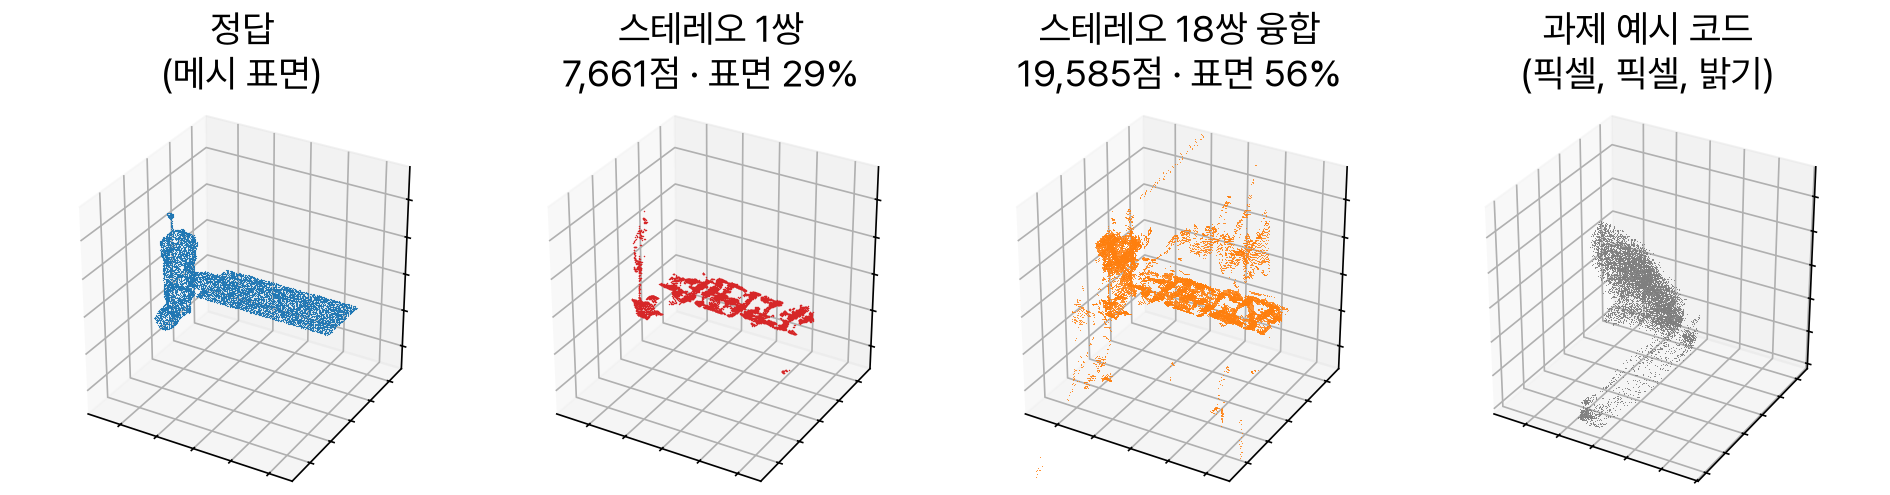
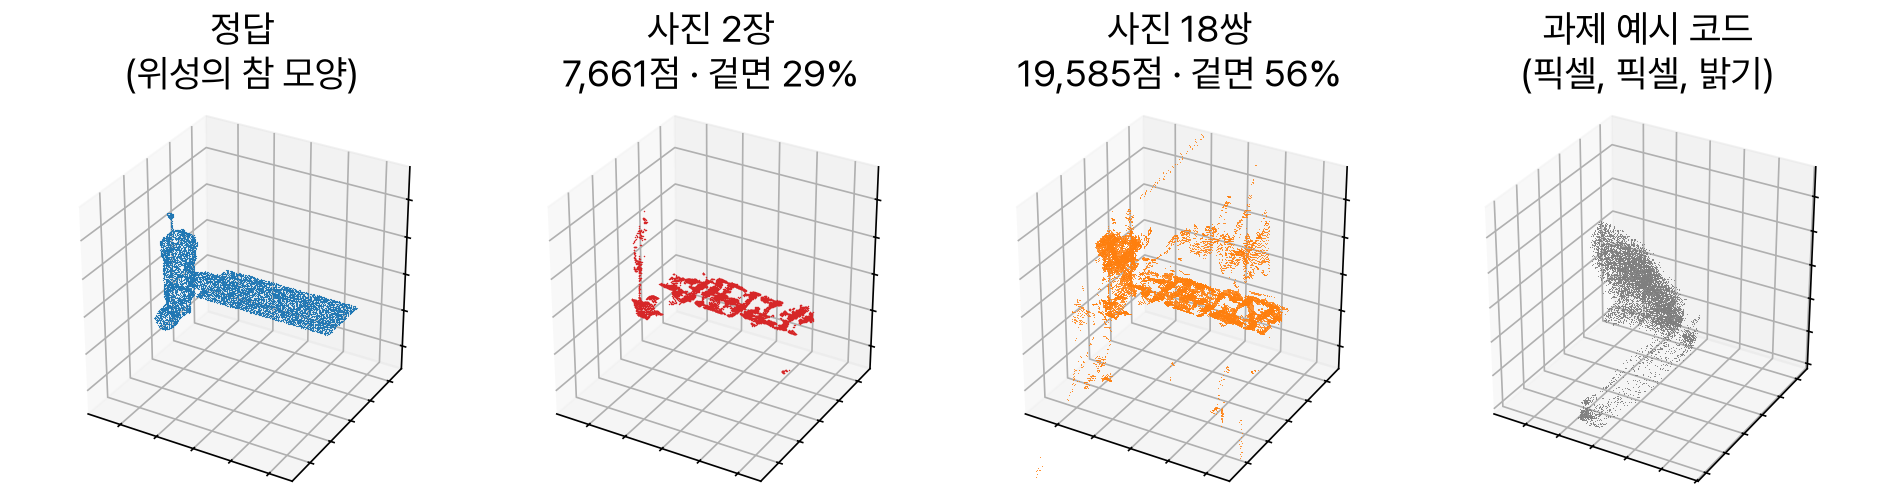
3장 그림에서 과제 예시를 빼고, 슬라이드 문장을 앞뒤가 이어지게 고침
3장 그림
    과제 예시 코드 결과를 빼고 정답 · 사진 2장 · 사진 18쌍 세 칸으로 줄였다.
    예시 코드가 왜 3D 가 아닌지는 2장에서 이미 다루므로, 같은 이야기를 두 번
    하면 정작 봐야 할 "앞면은 찼고 뒷면이 비었다" 에서 눈이 떨어진다.

    문서용 04_pointclouds.png 는 네 칸 그대로 두고, 발표용
    04_pointclouds_slide.png 를 따로 만든다. 1·2장에서 이미 쓰던 방식이다.
    대신 "과제 예시보다 5.6배 정확" 은 3장 표에 한 줄로 남겼다.

문장
    카드 안의 문장이 서로 이어지지 않고 토막나 있었다. 각 카드를 세 걸음으로
    다시 썼다.
      1장 왼쪽  문제 -> 왜 그런가 -> 그래서 어떻게
      1장 오른쪽 문제 -> 반전 -> 해결
      3장 오른쪽 결과 -> 한계 -> 대응
      4장 왼쪽  무엇을 하는가 -> 왜 3이었나 -> 왜 틀렸나
    4장 오른쪽 아래의 "쓰지 않은 것" 도 앞 카드의 "전부 같이 좋아졌습니다" 를
    받아 "이번엔 하나를 얻고 하나를 내주는 쪽이라" 로 이어지게 했다.

    발표자 노트도 3장 기준으로 다시 맞췄다 ("네 장" -> "세 장").

outputs 는 이제 15개이고 전부 바이트 단위로 재현된다.

Claude-Session: https://claude.ai/code/session_018U3AzX4tcWGeaMbFnbomri

diff --git a/02_2d_to_3d/tools/build_report.py b/02_2d_to_3d/tools/build_report.py
@@ -346,15 +346,16 @@ def build(prs, s):
         "SPE3R 위성 근접 영상 1,000장 · 256×256 · Stanford SLAB")
     add_image(sl, os.path.join(OUT, "00_concept.png"), 0.72, 1.70, 11.89, 3.16)
     add_panel(sl, 0.72, 5.02, 5.86, 1.86, "왜 사진이 두 장 필요한가", [
-        t("사진 한 장으로는 멀고 가까움을 알 수 없습니다."),
-        t("사람도 눈이 둘이라 거리를 느낍니다."),
-        t("떨어진 두 곳에서 찍으면 가까운 것일수록 많이 밀립니다."),
+        t("사진 한 장에는 멀고 가까움이 남지 않습니다."),
+        t("한 방향으로 늘어선 점이 전부 같은 자리에 찍히기 때문입니다."),
+        t("그래서 떨어진 두 곳에서 찍습니다. 가까운 것일수록 많이 "
+          "밀리고, 그 밀린 정도가 곧 거리입니다."),
     ])
     add_panel(sl, 6.96, 5.02, 5.65, 1.86, "그런데 이 데이터는 카메라가 고정입니다", [
-        t("옆으로 1 mm 도 움직이지 않습니다."),
+        t("옆으로 1 mm 도 움직이지 않아, 그대로면 두 번째 눈이 없습니다."),
         tk("대신 위성이 매 장면 무작위로 돌아갑니다."),
-        t(f"그 각도 차이가 두 번째 눈이 됩니다. 옆에서 "
-          f"{best['baseline_m']*100:.0f} cm 떨어져 찍은 효과입니다."),
+        t(f"위성을 가만히 놓고 보면 카메라가 돈 셈이라, 옆에서 "
+          f"{best['baseline_m']*100:.0f} cm 떨어져 찍은 효과가 나옵니다."),
     ])
     add_notes(sl, f"""
 사진 한 장으로는 멀고 가까움을 알 수 없습니다. 한 방향으로 늘어선 점들이 전부 같은
@@ -404,12 +405,13 @@ def build(prs, s):
 
     add_panel(sl, 0.72, 5.18, 11.89, 1.64, "왜 이렇게 짰나", [
         t("공과 상자로 위성을 세우면 정답 거리를 식으로 구할 수 있습니다. "
-          "정답에 오차가 없으니, 틀린 만큼이 곧 알고리즘의 오차입니다."),
+          "정답에 오차가 없으니, 틀린 만큼이 그대로 알고리즘의 오차입니다."),
         t("그래서 '그림이 그럴듯한가' 가 아니라 '숫자가 맞는가' 로 확인합니다. "
-          f"정답 깊이 차이 {syn['gt_span_m']:.2f} m 를 저희는 {ss['span_m']:.2f} m 로, "
-          f"과제 예시 코드는 {se['span_m']:.3f} m 로 복원했습니다."),
-        tk(f"이번에 찾은 버그 4건은 전부 테스트가 없던 자리에서 나왔습니다. "
-           f"고친 뒤 일부러 되돌려 그 테스트가 진짜 실패하는지까지 확인했습니다."),
+          f"정답 깊이 차이 {syn['gt_span_m']:.2f} m 를 저희는 {ss['span_m']:.2f} m 로 "
+          f"되살렸고, 과제 예시 코드는 {se['span_m']:.3f} m 로 납작해졌습니다."),
+        tk("이렇게까지 한 이유는, 이번에 찾은 버그 4건이 전부 테스트가 없던 "
+           "자리에서 나왔기 때문입니다. 고친 뒤에는 일부러 되돌려 그 테스트가 "
+           "진짜 실패하는지까지 확인했습니다."),
     ])
     add_notes(sl, f"""
 과제 예시의 테스트는 결과의 크기와 자료형만 확인합니다. 그것만으로는 계산식이 틀려도
@@ -440,31 +442,37 @@ def build(prs, s):
     sl = new_slide(
         prs, 3, "03 / 2D → 3D 변환 결과",
         "앞면은 정확하고, 뒷면이 비어 있습니다",
-        "왼쪽부터 정답 · 사진 2장 · 사진 여러 장 · 과제 예시 코드")
-    add_image(sl, os.path.join(OUT, "04_pointclouds.png"), 0.72, 1.70, 11.89, 3.16)
+        f"왼쪽부터 정답 · 사진 2장으로 만든 결과 · "
+        f"사진 {cov_fuse['pairs_used']}쌍을 합친 결과")
+    add_image(sl, os.path.join(OUT, "04_pointclouds_slide.png"),
+              0.72, 1.70, 11.89, 3.16)
     add_card(sl, 0.72, 5.02, 4.30, 1.86)
     add_text(sl, 0.98, 5.21, 3.78, 0.24, [("결과", SANS_SB, 10.5, INK)])
     add_matrix(sl, 0.98, 5.60, [2.34, 1.44], [
         (("거리 오차 (중앙값)", f"{best['median_abs']*100:.2f} cm"), "key"),
         (("5 cm 안에 든 비율", f"{best['within_5cm']*100:.1f}%"), "key"),
+        (("과제 예시 코드보다", f"{gap_ratio:.1f}배 정확"), "key"),
         (("겉면을 덮은 비율 · 2장", f"{cov_one['surface_coverage']*100:.1f}%"), "body"),
         ((f"겉면을 덮은 비율 · {cov_fuse['pairs_used']}쌍",
           f"{fuse0['surface_coverage']*100:.1f}%"), "body"),
     ])
     add_panel(sl, 5.26, 5.02, 7.35, 1.86, "이렇게 읽어 주십시오", [
-        t(f"거리는 정확합니다. 과제 예시 코드보다 {gap_ratio:.1f}배 정확합니다."),
-        tk("대신 한 시점에서는 뒷면이 안 보입니다. 알고리즘이 부족한 것이 아니라 "
-           "가려서 안 보이는 것입니다."),
-        t(f"사진을 더 모아 {cov_fuse['pairs_used']}쌍을 합치면 반대편이 채워져 "
-          f"{fuse0['surface_coverage']*100:.0f}% 가 되지만, 대신 정확도가 떨어집니다."),
+        t(f"거리는 정확합니다. 100번 중 {best['within_5cm']*100:.0f}번이 "
+          f"5 cm 안에 들어옵니다."),
+        tk("대신 가운데 그림을 보시면 한쪽 면만 있습니다. 알고리즘이 부족해서가 "
+           "아니라, 한 방향에서는 뒷면이 가려서 안 보이기 때문입니다."),
+        t(f"그래서 사진을 더 모아 {cov_fuse['pairs_used']}쌍을 합쳤습니다. 오른쪽처럼 "
+          f"반대편이 채워져 {fuse0['surface_coverage']*100:.0f}% 가 되지만, "
+          f"대신 정확한 점의 비율이 떨어집니다."),
     ])
     add_notes(sl, f"""
-2D 사진에서 3D 로 바꾼 결과입니다. 네 장을 왼쪽부터 봐 주십시오.
+2D 사진에서 3D 로 바꾼 결과입니다. 세 장을 왼쪽부터 봐 주십시오.
 
 첫 번째가 정답 모양입니다. 두 번째가 사진 두 장으로 만든 결과, 점
 {cov_one['n_points']:,}개입니다. 거리는 정확합니다. 오차 중앙값이
 {best['median_abs']*100:.2f}센티미터이고, 100번 중 {best['within_5cm']*100:.0f}번은
-5센티미터 안에 들어옵니다. 과제 예시 코드보다 {gap_ratio:.1f}배 정확합니다.
+5센티미터 안에 들어옵니다. 앞 장에서 보신 과제 예시 코드보다
+{gap_ratio:.1f}배 정확합니다.
 
 그런데 정답과 비교해 보시면 한쪽 면만 있습니다. 위성 겉면 전체로 따지면
 {cov_one['surface_coverage']*100:.0f}퍼센트입니다. 알고리즘이 부족해서가 아니라, 한
@@ -472,14 +480,13 @@ def build(prs, s):
 없습니다.
 
 그래서 사진을 더 모았습니다. 조건을 풀어 {cov_fuse['candidates']}쌍까지 후보를 늘리면
-{cov_fuse['pairs_used']}쌍이 복원되고, 다 합치면 세 번째 그림처럼
-{fuse0['surface_coverage']*100:.0f}퍼센트가 됩니다. 반대편이 채워지는 것이 보입니다.
-다만 공짜는 아닙니다. 정확한 점의 비율이 {cov_one['precision']*100:.0f}에서
-{fuse0['precision']*100:.0f}퍼센트로 떨어집니다. 넓게 덮는 것과 정확한 것을 동시에 얻을
-수는 없었습니다.
+{cov_fuse['pairs_used']}쌍이 복원되고, 다 합치면 세 번째 그림이 됩니다. 반대편이 채워져
+{fuse0['surface_coverage']*100:.0f}퍼센트가 됩니다.
 
-맨 오른쪽은 과제 예시 코드입니다. 가로세로는 픽셀 번호이고 높이가 밝기값이라 세 축의
-단위가 서로 다릅니다. 그래서 납작한 판으로 나옵니다.
+다만 공짜는 아닙니다. 정확한 점의 비율이 {cov_one['precision']*100:.0f}에서
+{fuse0['precision']*100:.0f}퍼센트로 떨어집니다. 사진이 늘면 서로 어긋난 점도 같이 늘기
+때문입니다. 넓게 덮는 것과 정확한 것을 동시에 얻을 수는 없었고, 어느 쪽을 쓸지는
+용도가 정할 문제라고 봅니다.
 """)
 
     # ---------------- 4. 개선점 ----------------
@@ -492,14 +499,15 @@ def build(prs, s):
         "재 본 것과 아직 안 해 본 것을 나눠서 적었습니다")
 
     add_panel(sl, 0.72, 1.70, 7.35, 2.85, "무엇이 문제였나", [
-        t("두 사진에서 같은 지점을 찾을 때, 주변을 네모나게 오려서 비교합니다."),
-        t("그 네모의 크기를 3으로 두고 있었습니다."),
+        t("두 사진에서 같은 지점을 찾을 때, 점 하나만 보면 어디가 어딘지"),
+        t("알 수 없어서 주변을 네모나게 오려 통째로 비교합니다."),
         gap(),
-        t("근거가 가짜(합성) 영상이었습니다. 가짜 영상은 무늬가 많아서"),
-        t("작은 네모로도 잘 찾아지고, 작을수록 경계가 선명합니다."),
+        t("그 네모의 크기를 3으로 두고 있었는데, 근거가 2장에서 보여 드린"),
+        t("가짜(합성) 영상이었습니다. 무늬가 많아 작은 네모로도 잘 찾아지고,"),
+        t("작을수록 경계가 선명해서 3이 제일 좋았습니다."),
         gap(),
-        tk("실제 위성은 반대입니다. 무늬가 거의 없어 작은 네모로는 못 찾습니다."),
-        tk("실제 영상으로 3부터 17까지 다시 재서 11로 바꿨습니다."),
+        tk("그런데 실제 위성은 금속이라 무늬가 거의 없습니다. 작은 네모로는"),
+        tk("아예 못 찾습니다. 실제 영상으로 3부터 17까지 다시 재서 11로 바꿨습니다."),
     ])
     add_card(sl, 8.31, 1.70, 4.30, 2.85)
     add_text(sl, 8.57, 1.89, 3.78, 0.24,
@@ -521,17 +529,18 @@ def build(prs, s):
     ])
 
     add_panel(sl, 0.72, 4.72, 5.86, 2.10, "해 봤지만 쓰지 않은 것", [
-        t("찾는 범위를 좁혀 봤습니다. 빈 곳은 줄어드는데"),
+        t("밀린 거리를 찾는 범위도 좁혀 봤습니다. 빈 곳은 줄어드는데,"),
         t(f"5 cm 안에 드는 비율이 {narrow['current']['within_5cm']*100:.1f}% 에서 "
-          f"{narrow['narrowed']['within_5cm']*100:.1f}% 로 떨어집니다."),
+          f"{narrow['narrowed']['within_5cm']*100:.1f}% 로 떨어졌습니다."),
         gap(),
-        tk("넓게 덮는 것과 정확한 것을 맞바꾸는 셈이라 그대로 뒀습니다."),
+        tk("이번엔 하나를 얻고 하나를 내주는 쪽이라 그대로 두고,"),
+        tk("잰 값만 남겨 뒀습니다."),
     ])
     add_panel(sl, 6.75, 4.72, 5.86, 2.10, "아직 안 해 본 것", [
         tk("① 사진을 고를 때 보는 방향이 골고루 퍼지게 고르기"),
         t("　지금은 한쪽에 몰려 있어, 같은 장수로 더 넓게 덮을 수 있습니다."),
         t("② 화면에서 위성이 차지하는 부분만 잘라 더 크게 보기"),
-        t("③ 자신 없는 값을 버리지 말고 '자신 없음' 으로 표시해 남기기"),
+        t("③ 자신 없는 값을 버리는 대신 '자신 없음' 으로 표시해 남기기"),
     ])
     add_notes(sl, f"""
 개선점입니다. 재 본 것과 아직 안 해 본 것을 나눠 적었습니다.

diff --git a/02_2d_to_3d/figures.py b/02_2d_to_3d/figures.py
@@ -380,12 +380,17 @@ def _scatter3d(ax, pts, color, title, lim, size=0.5, title_size=18):
     ax.set_box_aspect((1, 1, 1))
 
 
-def figure_pointclouds(mesh_points, stereo_body, fusion_body, example_cloud, path,
-                       coverage=None):
-    """정답 · 스테레오 1쌍 · 스테레오 다중쌍 융합 · 과제 예시를 나란히 놓는다.
+def figure_pointclouds(mesh_points, stereo_body, fusion_body, path,
+                       example_cloud=None, coverage=None):
+    """정답 · 사진 2장 · 사진 여러 장을 나란히 놓는다.
 
     한 쌍만 보이면 "3D 복원했다" 로 읽히는데 실제로 덮은 것은 앞면뿐이다.
     쌍을 늘린 결과를 옆에 두어야 무엇이 채워지고 무엇이 끝내 비는지 보인다.
+
+    example_cloud 를 주면 과제 예시 코드 결과를 네 번째 칸에 붙인다. 문서용
+    그림에는 붙이고 발표용에는 붙이지 않는다. 발표에서는 (픽셀, 픽셀, 밝기)
+    가 왜 3D 가 아닌지를 2 장에서 이미 다뤘고, 같은 이야기를 두 번 하면
+    정작 봐야 할 "앞면은 찼고 뒷면이 비었다" 에서 눈이 떨어지기 때문이다.
     """
     def limits(p):
         c = (p.min(axis=0) + p.max(axis=0)) / 2
@@ -394,21 +399,23 @@ def figure_pointclouds(mesh_points, stereo_body, fusion_body, example_cloud, pat
 
     cov = coverage or {}
     lim = limits(mesh_points)
-    fig = plt.figure(figsize=(12.6, 3.3))
-    a1 = fig.add_subplot(1, 4, 1, projection="3d")
-    _scatter3d(a1, mesh_points, "#1f77b4", "정답\n(메시 표면)", lim, 0.3)
-    a2 = fig.add_subplot(1, 4, 2, projection="3d")
+    n = 4 if example_cloud is not None else 3
+    fig = plt.figure(figsize=(3.15 * n, 3.3))
+    a1 = fig.add_subplot(1, n, 1, projection="3d")
+    _scatter3d(a1, mesh_points, "#1f77b4", "정답\n(위성의 참 모양)", lim, 0.3)
+    a2 = fig.add_subplot(1, n, 2, projection="3d")
     _scatter3d(a2, stereo_body, "#d62728",
-               f"스테레오 1쌍\n{len(stereo_body):,}점 · 표면 "
+               f"사진 2장\n{len(stereo_body):,}점 · 겉면 "
                f"{cov.get('single', 0) * 100:.0f}%", lim)
-    a3 = fig.add_subplot(1, 4, 3, projection="3d")
+    a3 = fig.add_subplot(1, n, 3, projection="3d")
     _scatter3d(a3, fusion_body, "#ff7f0e",
-               f"스테레오 {cov.get('pairs', 0)}쌍 융합\n{len(fusion_body):,}점 · 표면 "
+               f"사진 {cov.get('pairs', 0)}쌍\n{len(fusion_body):,}점 · 겉면 "
                f"{cov.get('fusion', 0) * 100:.0f}%", lim, 0.25)
-    a4 = fig.add_subplot(1, 4, 4, projection="3d")
-    norm, _, _ = pointcloud.normalize_scale(example_cloud)
-    _scatter3d(a4, norm, "#7f7f7f", "과제 예시 코드\n(픽셀, 픽셀, 밝기)",
-               limits(norm), 0.2)
+    if example_cloud is not None:
+        a4 = fig.add_subplot(1, n, 4, projection="3d")
+        norm, _, _ = pointcloud.normalize_scale(example_cloud)
+        _scatter3d(a4, norm, "#7f7f7f", "과제 예시 코드\n(픽셀, 픽셀, 밝기)",
+                   limits(norm), 0.2)
     # 3D 축은 제목이 축 상자보다 위로 크게 벗어나므로 전체 제목을 두지 않는다.
     # 그림이 무엇인지는 슬라이드와 README 의 설명이 맡는다.
     fig.subplots_adjust(left=0.01, right=0.99, top=0.80, bottom=0.0, wspace=0.05)

diff --git a/02_2d_to_3d/run_3d_experiment.py b/02_2d_to_3d/run_3d_experiment.py
@@ -714,12 +714,17 @@ def main() -> int:
     figures.figure_survey(results, os.path.join(OUT, "02_pair_survey.png"))
     best["_example_median"] = ex["full"]["median_abs"]
     figures.figure_spe3r(best, ex_depth, os.path.join(OUT, "03_spe3r_stereo.png"))
+    pc_cov = {"single": cov_single["surface_coverage"],
+              "fusion": fusion["stages"][0]["surface_coverage"],
+              "pairs": fusion["pairs_used"]}
+    # 문서용은 과제 예시 코드까지 네 칸, 발표용은 세 칸.
     figures.figure_pointclouds(
-        mesh_points, stereo_body, fusion_points, ex_cloud,
+        mesh_points, stereo_body, fusion_points,
         os.path.join(OUT, "04_pointclouds.png"),
-        coverage={"single": cov_single["surface_coverage"],
-                  "fusion": fusion["stages"][0]["surface_coverage"],
-                  "pairs": fusion["pairs_used"]})
+        example_cloud=ex_cloud, coverage=pc_cov)
+    figures.figure_pointclouds(
+        mesh_points, stereo_body, fusion_points,
+        os.path.join(OUT, "04_pointclouds_slide.png"), coverage=pc_cov)
 
     log("PLY 저장")
     pointcloud.write_ply(os.path.join(OUT, "pointcloud_ground_truth.ply"),

diff --git a/README.md b/README.md
@@ -67,7 +67,7 @@ SLAB), 모델 `aqua`입니다.
 - **개선점을 측정과 함께 적었습니다.** 재 본 것(블록 크기 — 채택 / 시차 탐색 범위
   — 트레이드오프라 미채택 / 기준 깊이 민감도)과 재 보지 않은 것(시점 분산 기반
   쌍 선별, 정렬 창 축소, 신뢰도 출력, 쌍별 블록 크기)을 구분했습니다.
-- **재현성.** `outputs/` 14개 산출물이 재실행해도 바이트 단위로 동일합니다.
+- **재현성.** `outputs/` 15개 산출물이 재실행해도 바이트 단위로 동일합니다.
 
 ---
 
